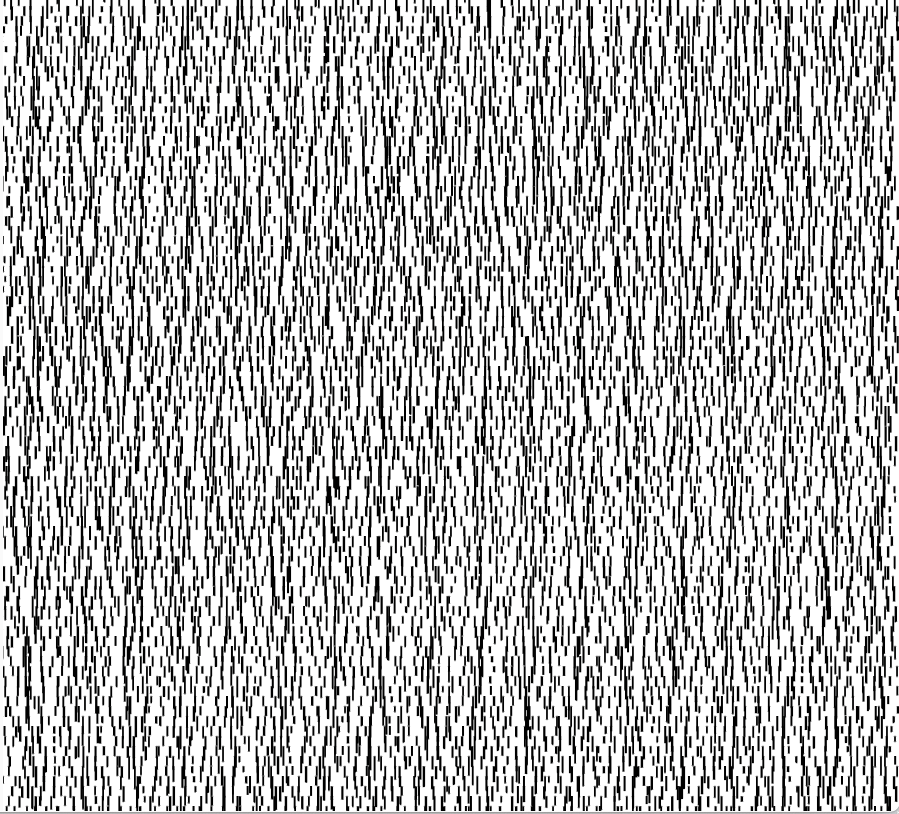
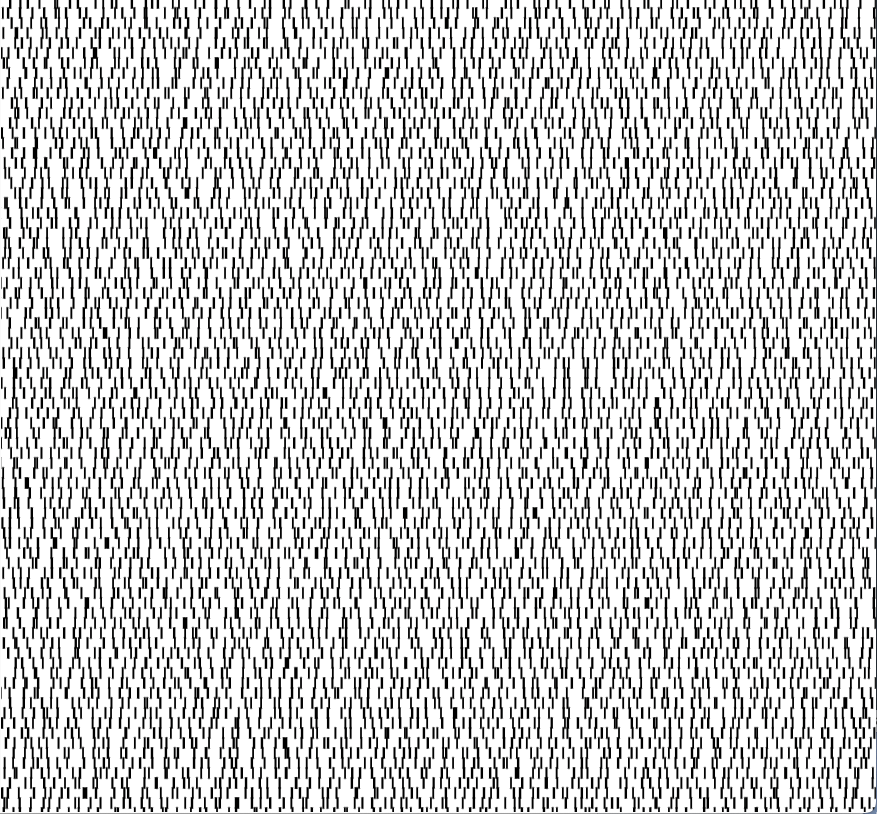
update the data pattern exploration process

diff --git a/coding exploration with data/README.md b/coding exploration with data/README.md
@@ -1,8 +1,21 @@
+#### Pattern exploration
 - initial pattern: <br/>
   <img src="../images/data_img0.png" width="500" alt="image 0"/>
+- reverse color for background and foreground <br/>
+  <img src="../images/data_img1.png" width="500" alt="image 1"/>
+- draw circles along with line and add random offset on the location of circle and line
+  <img src="../images/data_img2.png" width="500" alt="image 2"/>
+- add randomness on stroke color
+  <img src="../images/data_img3.png" width="500" alt="image 3"/>
+
+#### Data Pattern exploration (add weather data into pattern making)
+- choose the starting pattern <br/>
+  <img src="../images/data_img1.png" width="500" alt="image 1"/>
 - read temperature data from forecast.json (10 days) and change length of vertical line based on temperature value: <br/>
-  <img src="../images/data_img1.png" alt="image 1"/>
-- get humidity data and change stroke color based on humidity value: <br/>
-  <img src="../images/data_img2.png" alt="image 2"/>
-- change data from 10 days to 1 year.
-  <img src="../images/data_img3.png" alt="image 3"/>
+  <img src="../images/data_img4.png" alt="image 4"/>
+- get humidity data and change stroke color (i.e., red-ish) based on humidity value: <br/>
+  <img src="../images/data_img5.png" alt="image 5"/>
+- change stroke color (i.e., green-ish) based on humidity value again <br/> 
+  <img src="../images/data_img6.png" alt="image 6"/>
+- change data from 10 days to 1 year. <br/> 
+  <img src="../images/data_img7.png" alt="image 7"/>
